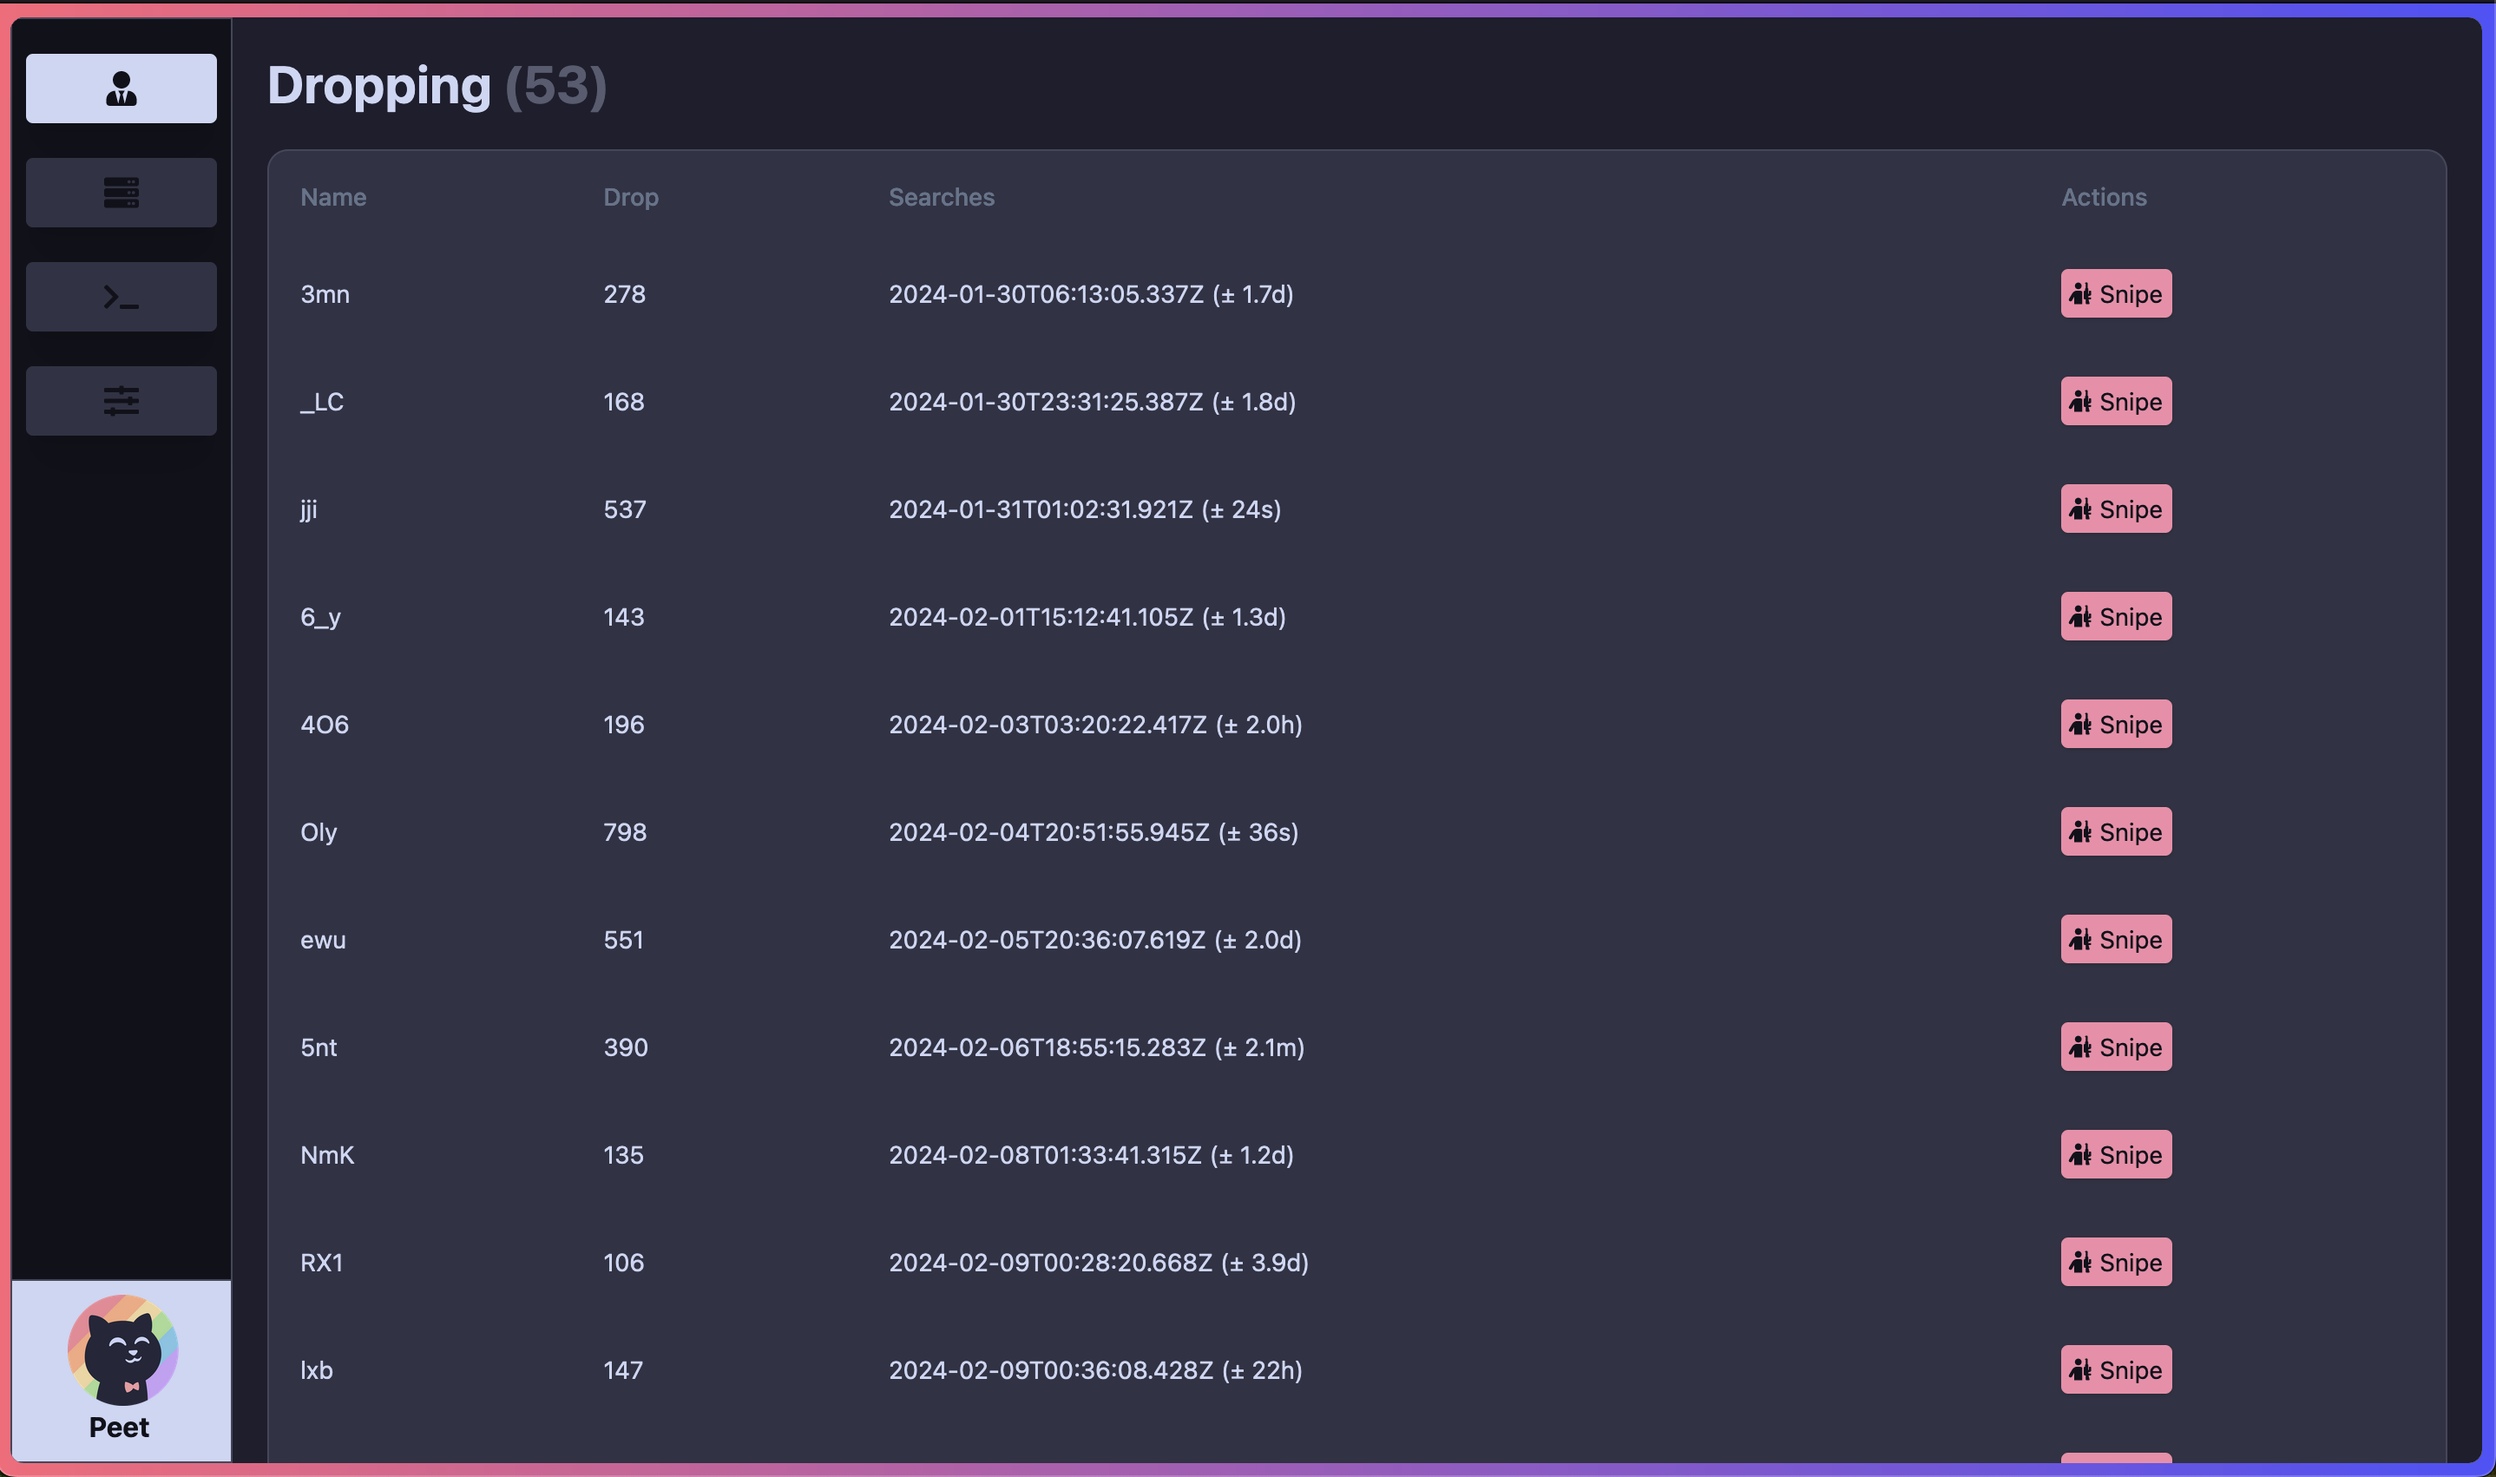
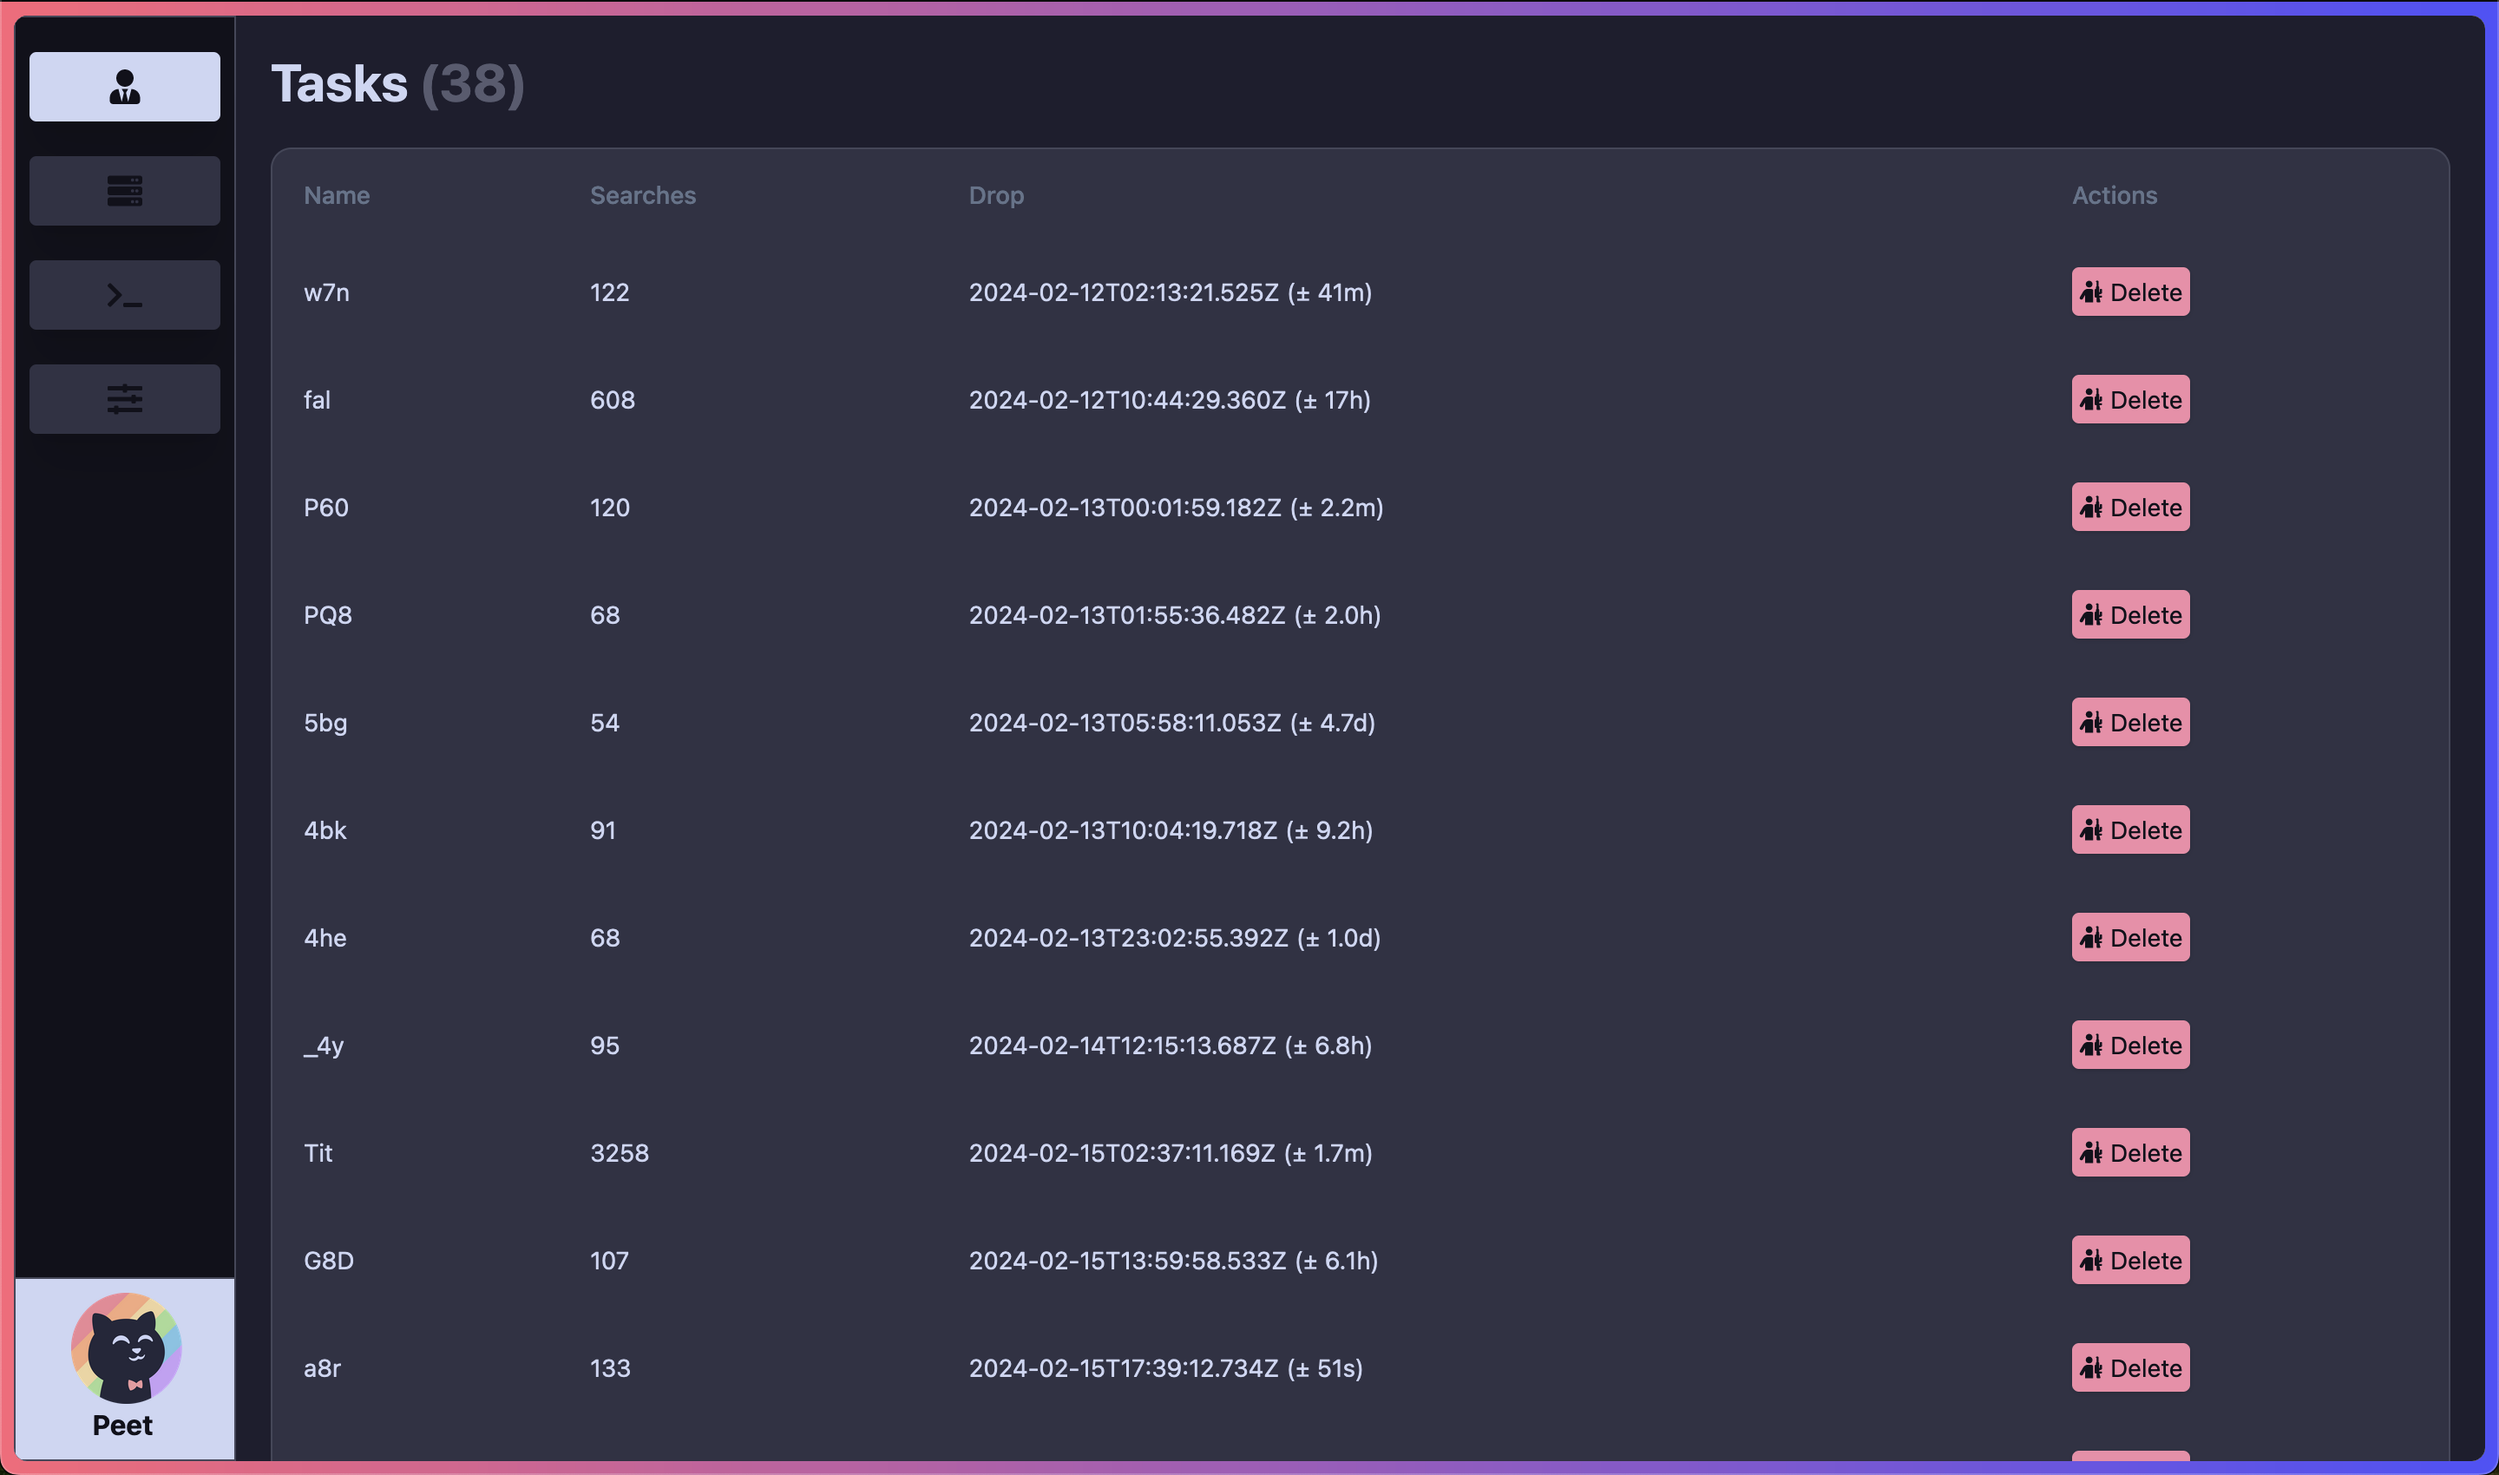
Better UI

diff --git a/frontend/src/components/pages/taskpage.tsx b/frontend/src/components/pages/taskpage.tsx
@@ -6,36 +6,42 @@ import {
   TableHeader,
   TableRow,
 } from "@/components/ui/table";
+import { useState } from "react";
 
 import { FaPersonRifle } from "react-icons/fa6";
 
 export default function TaskPage({ profiles }: { profiles: any[] }) {
+  const [tasks, setTasks] = useState(profiles);
+
   return (
     <div className="mx-5 pt-5">
       <p className="text-3xl font-bold ">
-        Dropping <span className="text-surface2">({profiles.length})</span>
+        Tasks <span className="text-surface2">({tasks.length})</span>
       </p>
 
       <Table className="bg-surface0 rounded-xl mt-5 border-separate border border-surface1">
         <TableHeader>
           <TableHead>Name</TableHead>
-          <TableHead>Drop</TableHead>
           <TableHead>Searches</TableHead>
+          <TableHead>Drop</TableHead>
           <TableHead>Actions</TableHead>
         </TableHeader>
 
         <TableBody>
-          {profiles.map((p) => {
+          {tasks.map((p, i) => {
             return (
               <TableRow>
                 <TableCell>{p.n}</TableCell>
                 <TableCell>{p.v}</TableCell>
                 <TableCell>{p.s}</TableCell>
                 <TableCell>
-                  <div className="flex items-center gap-1 cursor-pointer rounded shadow text-crust bg-red w-16 p-1">
+                  <button
+                    onClick={() => setTasks(tasks.filter((_, j) => j !== i))}
+                    className="flex items-center gap-1 cursor-pointer rounded shadow text-crust bg-red w-18 p-1"
+                  >
                     <FaPersonRifle />
-                    Snipe
-                  </div>
+                    Delete
+                  </button>
                 </TableCell>
               </TableRow>
             );

diff --git a/frontend/src/App.tsx b/frontend/src/App.tsx
@@ -26,7 +26,7 @@ function Router({ route, args }: { route: string; args: any }) {
 function App() {
   const [route, setRoute] = useState("profiles");
 
-  const profiles = names.map((n) => {
+  let profiles = names.map((n) => {
     return {
       n: n.name,
       v: n.searches,
